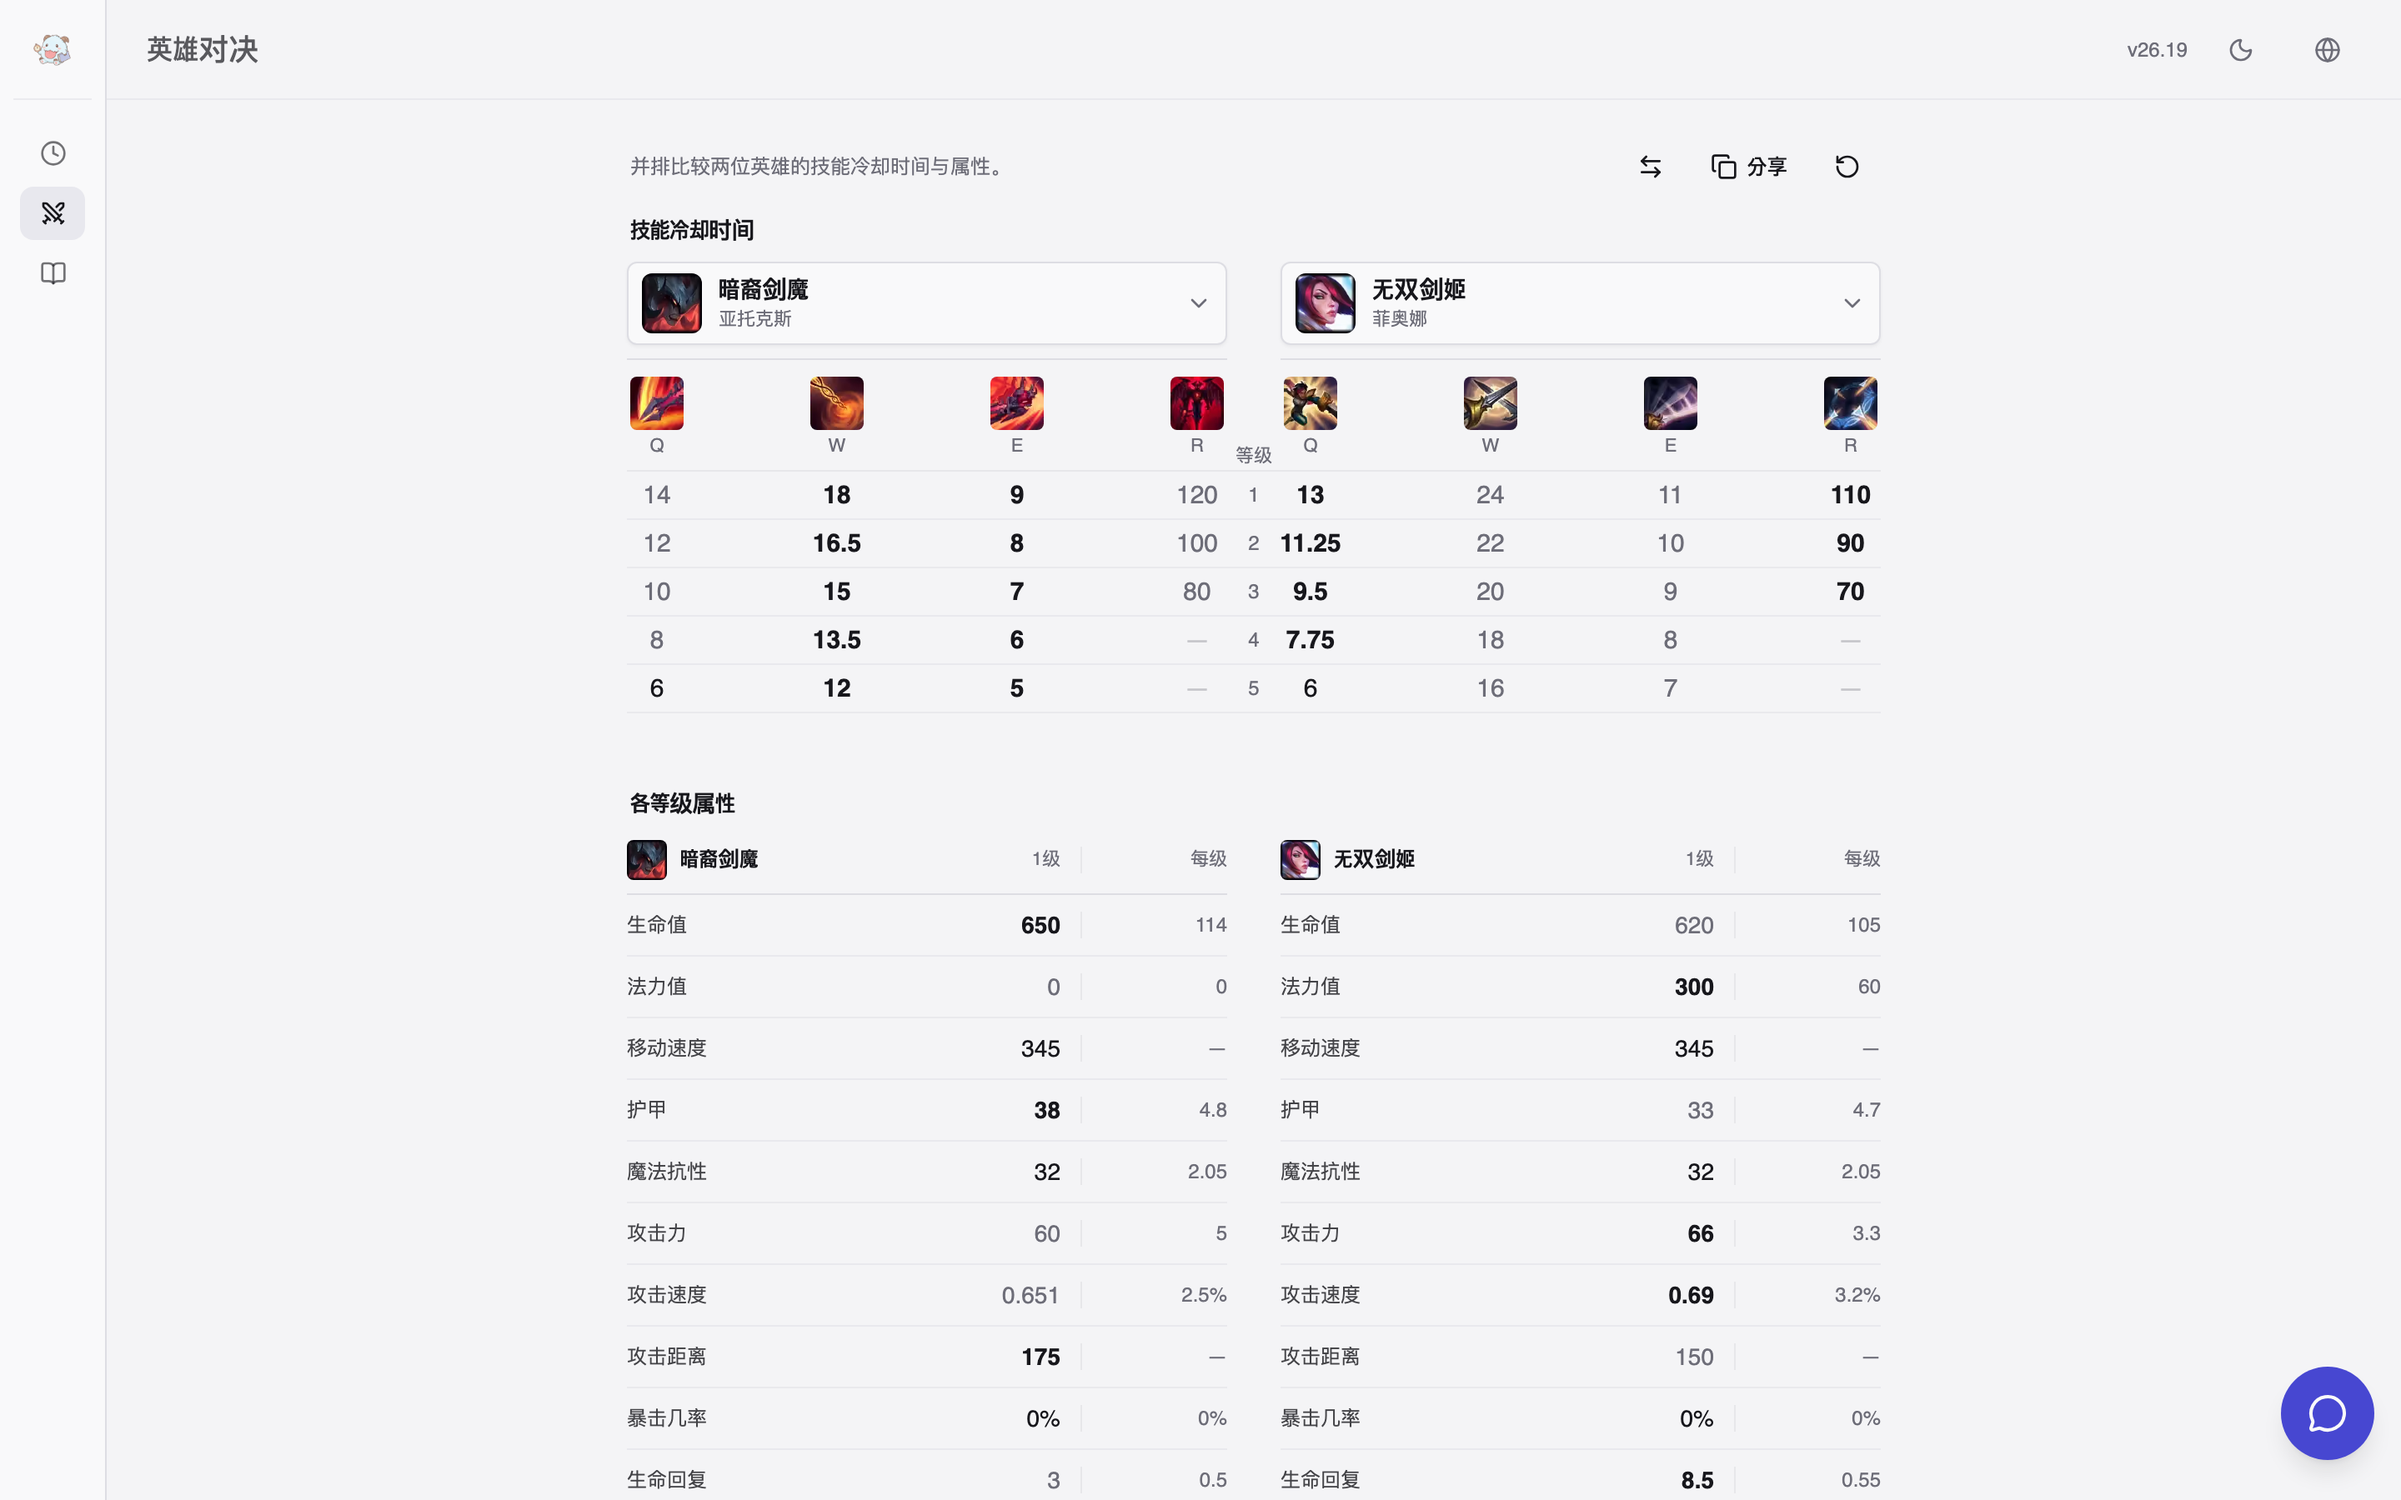
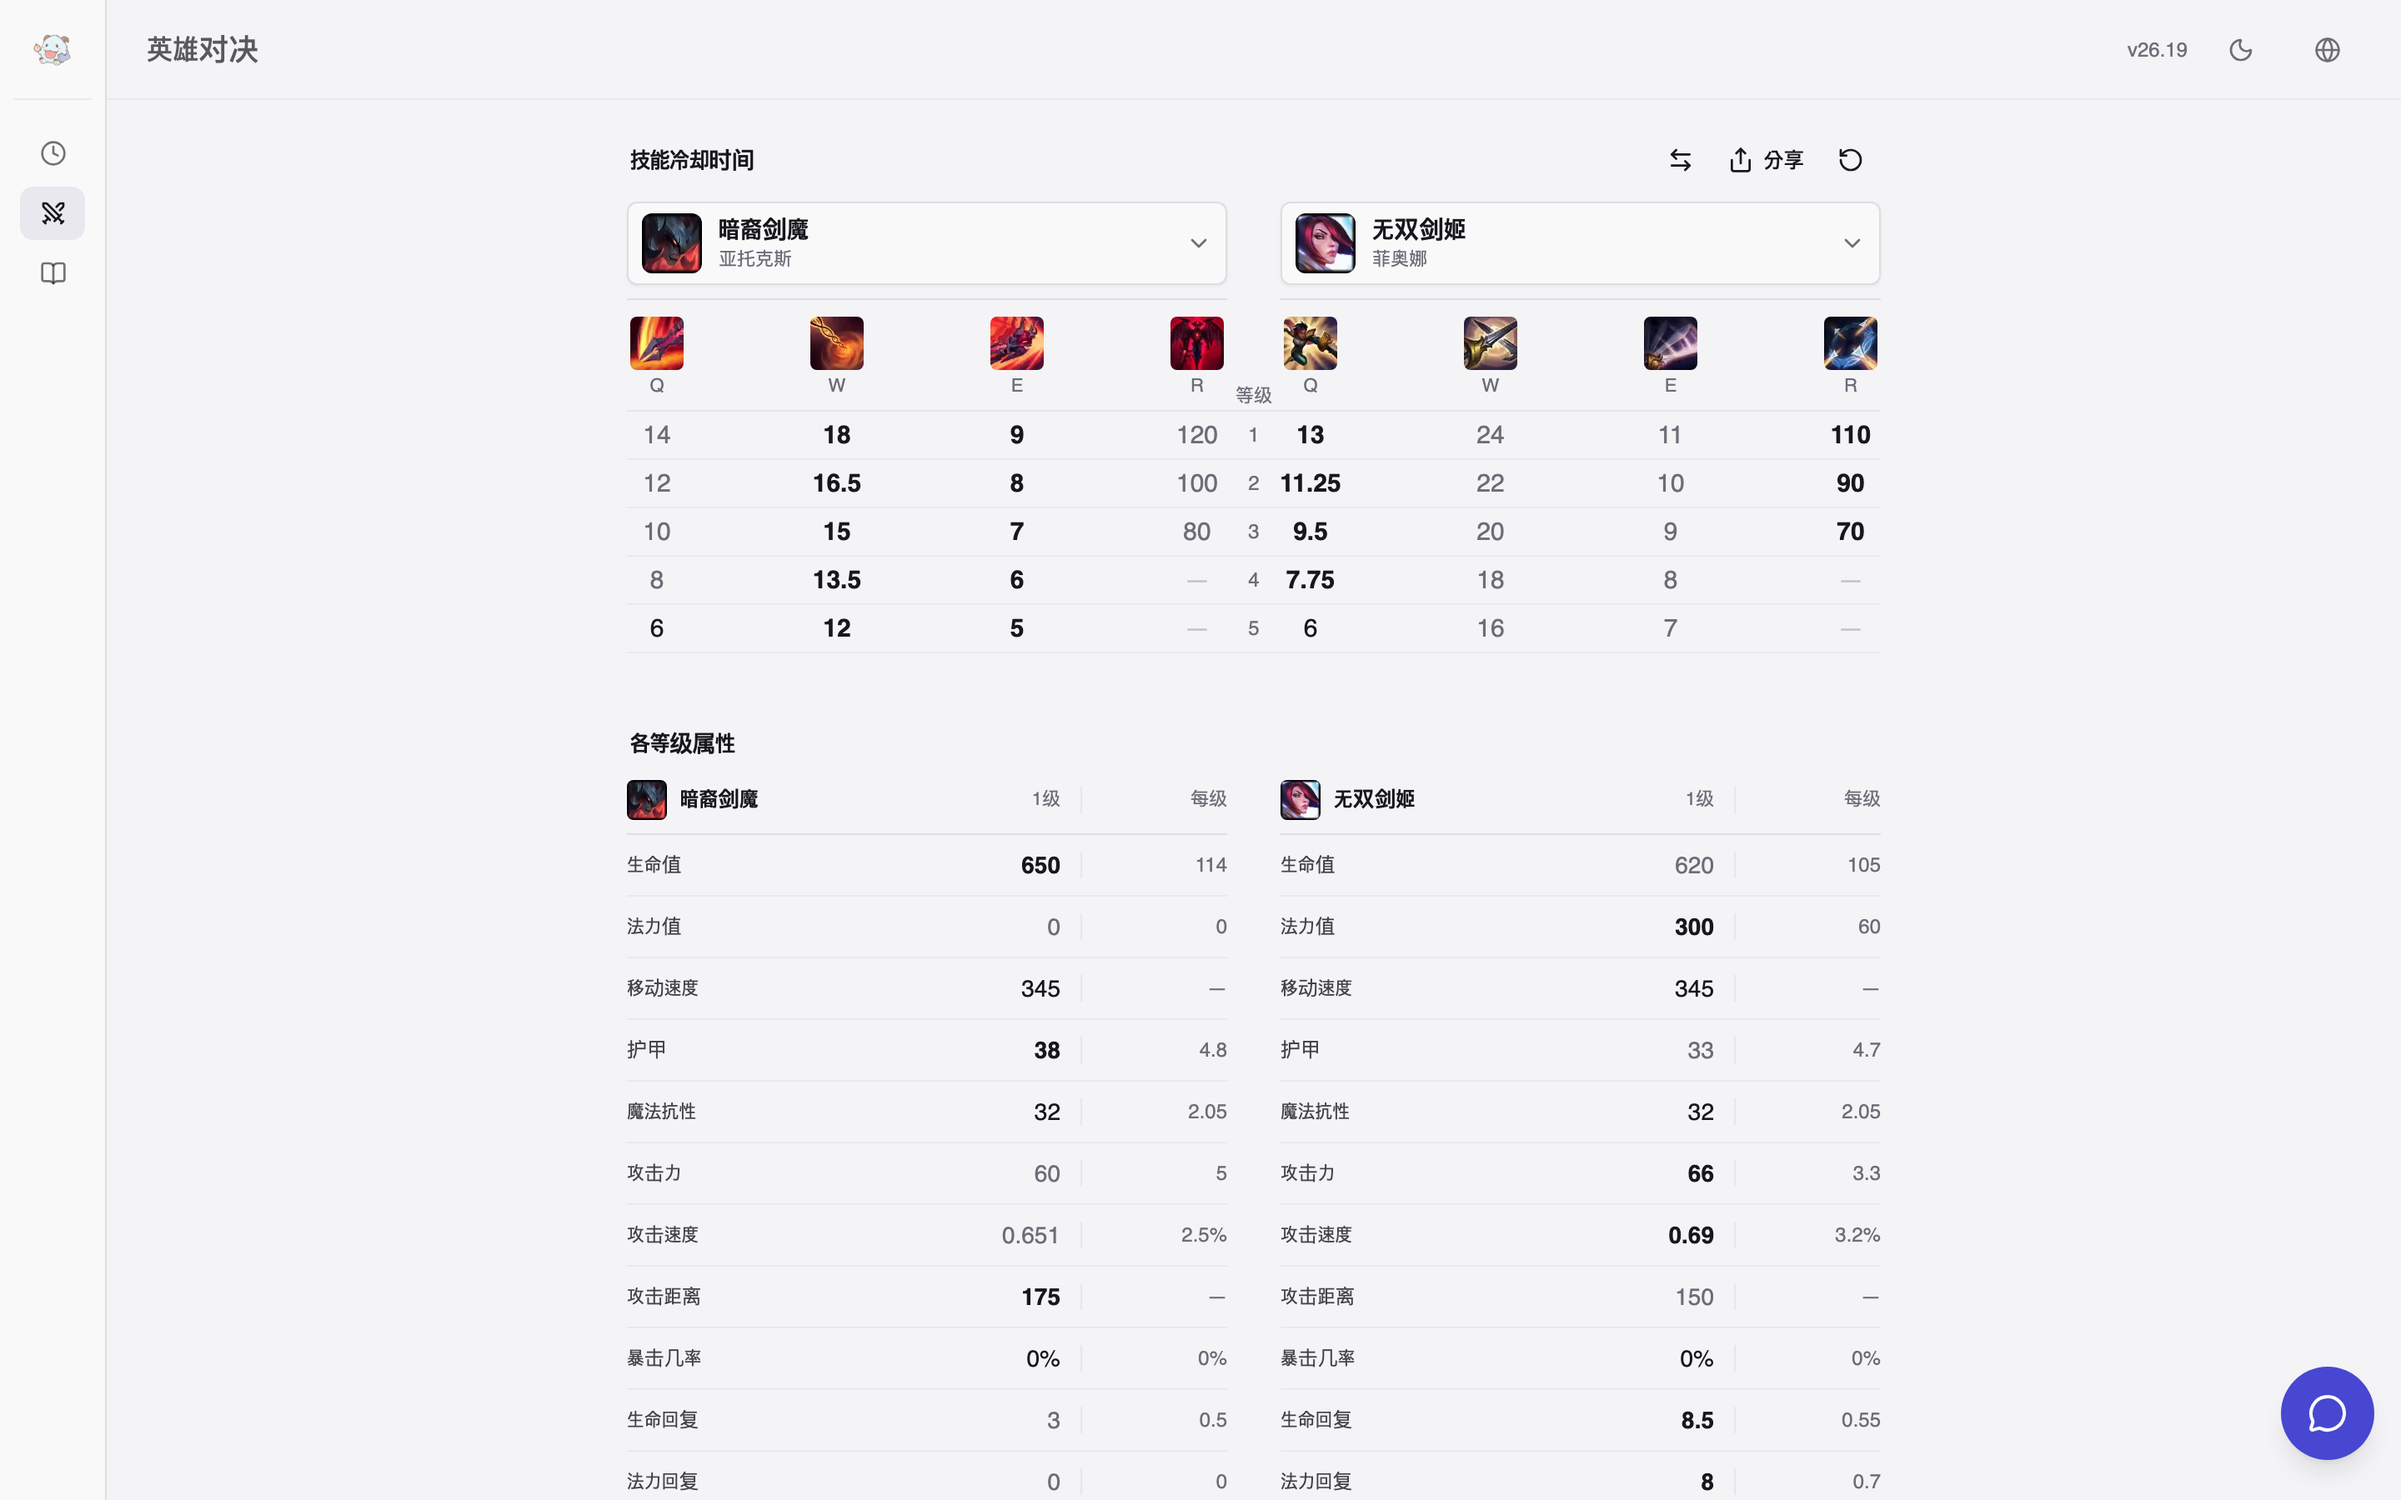
fix: 휴대폰 상단 바 제목이 찌그러지지 않게 패치 표기를 제목 밑으로 내리고, VS 바꾸기·공유·초기화를 표 제목 줄에 작게 둔다
휴대폰에서는 오른쪽 44px 버튼 셋 때문에 제목 자리가 좁아 세로로 접혔다. 제목은 한 줄로 두고
패치는 그 밑 작은 줄로. VS 버튼 묶음은 '스킬 쿨타임' 제목과 같은 줄 오른쪽에 32px 로 서고,
휴대폰에서는 아이콘만 남긴다. 공유는 복사 아이콘 대신 공유 아이콘. README 캡처를 갱신한다.

diff --git a/src/pages/VsPage/index.tsx b/src/pages/VsPage/index.tsx
@@ -1,5 +1,5 @@
 import { useState } from "react";
-import { ArrowLeftRight, Check, Copy, RotateCcw } from "lucide-react";
+import { ArrowLeftRight, Check, RotateCcw, Share } from "lucide-react";
 import ChampionSelector from "@/components/features/ChampionSelector";
 import { Button } from "@/components/ui/button";
 import { copyTextToClipboard } from "@/lib/clipboard";
@@ -20,8 +20,11 @@ interface VsPageProps {
   sources: StaticDataSources;
 }
 
-function VsHeader(props: {
-  patchVersion: string;
+/**
+ * 바꾸기·공유·초기화. 쿨타임 표 제목과 같은 줄 오른쪽에 선다(`VsCooldownMatrix` 가 자리를 준다).
+ * 휴대폰에서는 아이콘만 남기고, 공유는 복사 아이콘이 아니라 공유 아이콘(네모 위 화살표)이다.
+ */
+function VsActions(props: {
   copied: boolean;
   onShare: () => void;
   onReset: () => void;
@@ -29,39 +32,17 @@ function VsHeader(props: {
 }) {
   const { t } = useTranslation();
   return (
-    <div className="mb-2 flex items-center justify-between gap-2">
-      <div className="min-w-0 px-0.5">
-        <h1 className="sr-only">
-          {t.comparison.title}
-        </h1>
-        <p className="hidden truncate text-xs text-muted-foreground sm:block">{t.comparison.description}</p>
-      </div>
-      <div className="flex shrink-0 items-center gap-1">
-        <Button variant="ghost" size="icon" aria-label={t.comparison.swap} onClick={props.onSwap}>
-          <ArrowLeftRight aria-hidden="true" className="size-4" />
-        </Button>
-        <Button
-          variant="ghost"
-          size="sm"
-          onClick={props.onShare}
-          className="gap-1.5"
-        >
-          {props.copied ? (
-            <Check aria-hidden="true" className="size-4" />
-          ) : (
-            <Copy aria-hidden="true" className="size-4" />
-          )}
-          {t.comparison.share}
-        </Button>
-        <Button
-          variant="ghost"
-          size="icon"
-          aria-label={t.encyclopedia.reset}
-          onClick={props.onReset}
-        >
-          <RotateCcw aria-hidden="true" className="size-4" />
-        </Button>
-      </div>
+    <div className="flex shrink-0 items-center gap-0.5 sm:gap-1">
+      <Button variant="ghost" size="icon" className="size-8" aria-label={t.comparison.swap} title={t.comparison.swap} onClick={props.onSwap}>
+        <ArrowLeftRight aria-hidden="true" className="size-4" />
+      </Button>
+      <Button variant="ghost" size="sm" className="h-8 gap-1.5 px-2" aria-label={t.comparison.share} title={t.comparison.share} onClick={props.onShare}>
+        {props.copied ? <Check aria-hidden="true" className="size-4" /> : <Share aria-hidden="true" className="size-4" />}
+        <span className="hidden sm:inline">{t.comparison.share}</span>
+      </Button>
+      <Button variant="ghost" size="icon" className="size-8" aria-label={t.encyclopedia.reset} title={t.encyclopedia.reset} onClick={props.onReset}>
+        <RotateCcw aria-hidden="true" className="size-4" />
+      </Button>
     </div>
   );
 }
@@ -85,13 +66,7 @@ export default function VsPage(props: VsPageProps) {
   };
   return (
     <div className="mx-auto w-full max-w-[800px] px-2 py-4 sm:px-6 md:py-5">
-      <VsHeader
-        patchVersion={props.patchVersion}
-        copied={Boolean(shared?.success)}
-        onShare={copyLink}
-        onReset={() => update(parseVsState(""))}
-        onSwap={() => update({ mine: state.opponent, opponent: state.mine })}
-      />
+      <h1 className="sr-only">{t.comparison.title}</h1>
       <div
         role="status"
         className={
@@ -110,6 +85,14 @@ export default function VsPage(props: VsPageProps) {
         patchVersion={props.patchVersion}
         sources={props.sources}
         locale={props.lang}
+        actions={
+          <VsActions
+            copied={Boolean(shared?.success)}
+            onShare={copyLink}
+            onReset={() => update(parseVsState(""))}
+            onSwap={() => update({ mine: state.opponent, opponent: state.mine })}
+          />
+        }
         onSelect={setSelecting}
       />
       {selecting && (

diff --git a/src/components/features/Nav.tsx b/src/components/features/Nav.tsx
@@ -108,7 +108,7 @@ function Nav({
           top: "0px"
         }}
       >
-        <div className="px-4 md:px-6 flex items-center gap-3 w-full h-full pointer-events-auto">
+        <div className="px-4 md:px-6 flex items-center gap-1 md:gap-3 w-full h-full pointer-events-auto">
           {/* Mobile: Menu button */}
           {isMobile && onMenuToggle && (
             <Button
@@ -123,12 +123,23 @@ function Nav({
           )}
           
           {/* Page title */}
+          {/*
+            휴대폰에서는 오른쪽에 44px 버튼 셋이 서니 제목 자리가 좁다. 패치 표기까지 한 줄에
+            두면 제목이 세로로 찌그러져서, 휴대폰에서는 패치를 제목 밑 작은 줄로 내린다.
+          */}
           {(isEncyclopediaPage || isChampionCooldownPage || isVsPage) && (
-            <h1 className="text-base md:text-lg font-medium flex-1 text-foreground/70 leading-none">
-              {isEncyclopediaPage && t.nav.encyclopedia}
-              {isVsPage && t.comparison.title}
-              {isChampionCooldownPage && t.sidebar.championCooldown}
-            </h1>
+            <div className="min-w-0 flex-1">
+              <h1 className="truncate whitespace-nowrap text-[15px] md:text-lg font-medium text-foreground/70 leading-tight md:leading-none">
+                {isEncyclopediaPage && t.nav.encyclopedia}
+                {isVsPage && t.comparison.title}
+                {isChampionCooldownPage && t.sidebar.championCooldown}
+              </h1>
+              {isMobile && patchVersion && !isVersionMismatch && (
+                <div className="mt-0.5 text-[11px] font-medium leading-none tabular-nums text-muted-foreground">
+                  {patchLabel(patchVersion)}
+                </div>
+              )}
+            </div>
           )}
           {!(isEncyclopediaPage || isChampionCooldownPage || isVsPage) && <div className="flex-1" />}
           {/* Version with mismatch icon */}
@@ -172,8 +183,8 @@ function Nav({
               </PopoverContent>
             </Popover>
           )}
-          {/* 모바일에서도 보인다. 모바일에는 화면마다 수치가 어느 패치 기준인지 적을 자리가 여기 하나뿐이다. */}
-          {patchVersion && !isVersionMismatch && (
+          {/* 모바일에서도 보인다. 모바일에는 화면마다 수치가 어느 패치 기준인지 적을 자리가 여기 하나뿐이라 제목 밑에 둔다. */}
+          {!isMobile && patchVersion && !isVersionMismatch && (
             <div className="text-xs font-medium leading-none tabular-nums text-muted-foreground">
               {patchLabel(patchVersion)}
             </div>

diff --git a/src/pages/VsPage/VsComparison.tsx b/src/pages/VsPage/VsComparison.tsx
@@ -1,4 +1,4 @@
-import { useMemo } from "react";
+import { useMemo, type ReactNode } from "react";
 import { useTranslation } from "@/i18n";
 import type { DataLocale, StaticDataSources } from "@/data/contracts/staticData";
 import { VsStatList } from "./VsChampionColumn";
@@ -13,6 +13,8 @@ interface ComparisonProps {
   sources: StaticDataSources;
   locale: DataLocale;
   onSelect: (side: VsSideKey) => void;
+  /** 쿨타임 표 제목 줄 오른쪽에 설 버튼 묶음 */
+  actions?: ReactNode;
 }
 
 const SIDES = ["mine", "opponent"] as const;
@@ -32,7 +34,7 @@ export function VsComparison(props: ComparisonProps) {
   const version = props.sources.ddragon;
   return (
     <div>
-      <VsCooldownMatrix key={props.state.mine.id + ":" + props.state.opponent.id + ":" + props.locale} sides={sides} version={version} onSelect={props.onSelect} />
+      <VsCooldownMatrix key={props.state.mine.id + ":" + props.state.opponent.id + ":" + props.locale} sides={sides} version={version} onSelect={props.onSelect} actions={props.actions} />
       {hasDetails && (
         <>
           <section className="mt-8" aria-label={t.comparison.baseStats}>
